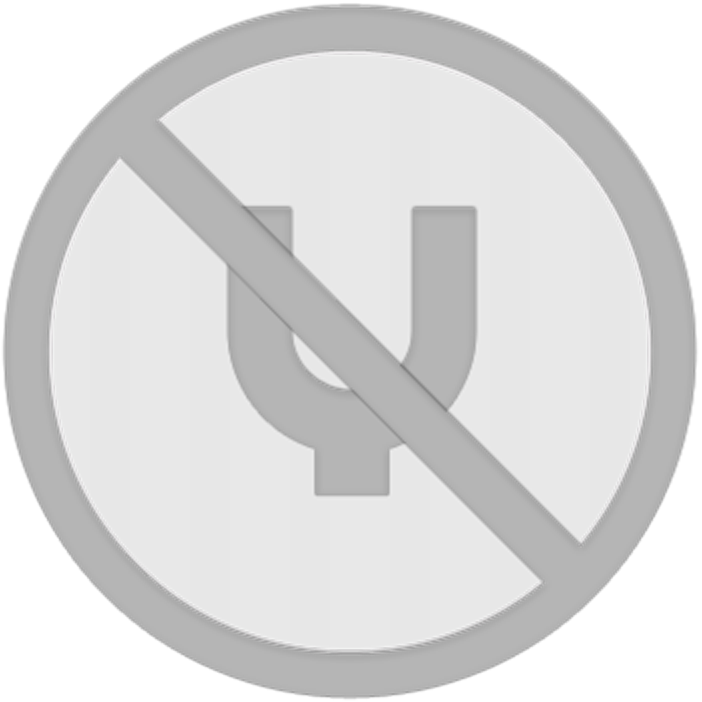
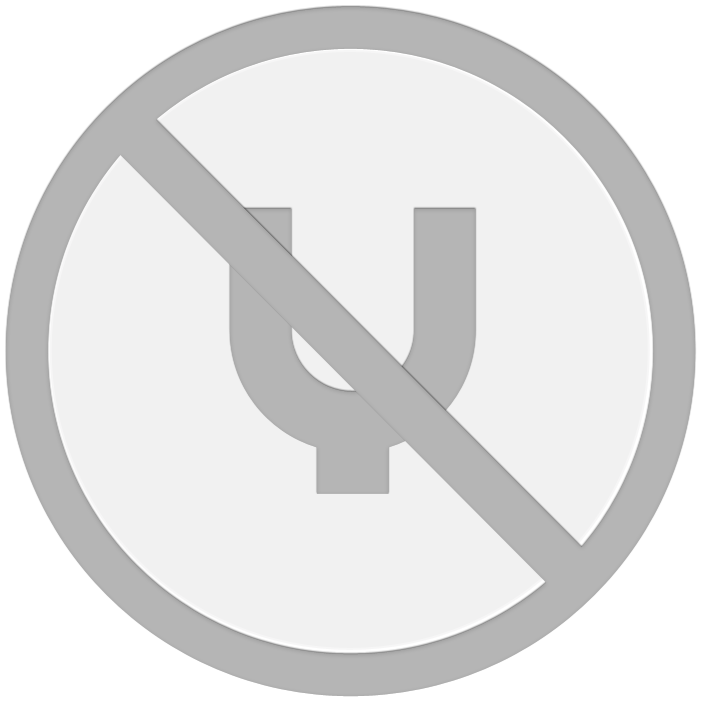
New empty image and delete  background gradient

diff --git a/less/views/order2/uis/empty.less b/less/views/order2/uis/empty.less
@@ -9,8 +9,8 @@
 		height: 100%;
 		width: 100%;
 
-		background: -webkit-gradient(radial, center center, 0px, center center, 100%, color-stop(0%,rgba(220,220,220,0)), color-stop(50%,rgba(220,220,220,0.5)), color-stop(100%,rgba(220,220,220,0.75))); /* Chrome,Safari4+ */
-		background: -webkit-radial-gradient(center, ellipse cover, rgba(220,220,220,0) 0%,rgba(220,220,220,0.5) 50%,rgba(220,220,220,0.75) 100%); /* Chrome10+,Safari5.1+ */
+		//background: -webkit-gradient(radial, center center, 0px, center center, 100%, color-stop(0%,rgba(220,220,220,0)), color-stop(50%,rgba(220,220,220,0.5)), color-stop(100%,rgba(220,220,220,0.75))); /* Chrome,Safari4+ */
+		//background: -webkit-radial-gradient(center, ellipse cover, rgba(220,220,220,0) 0%,rgba(220,220,220,0.5) 50%,rgba(220,220,220,0.75) 100%); /* Chrome10+,Safari5.1+ */
 
 		> .image-empty {
 
